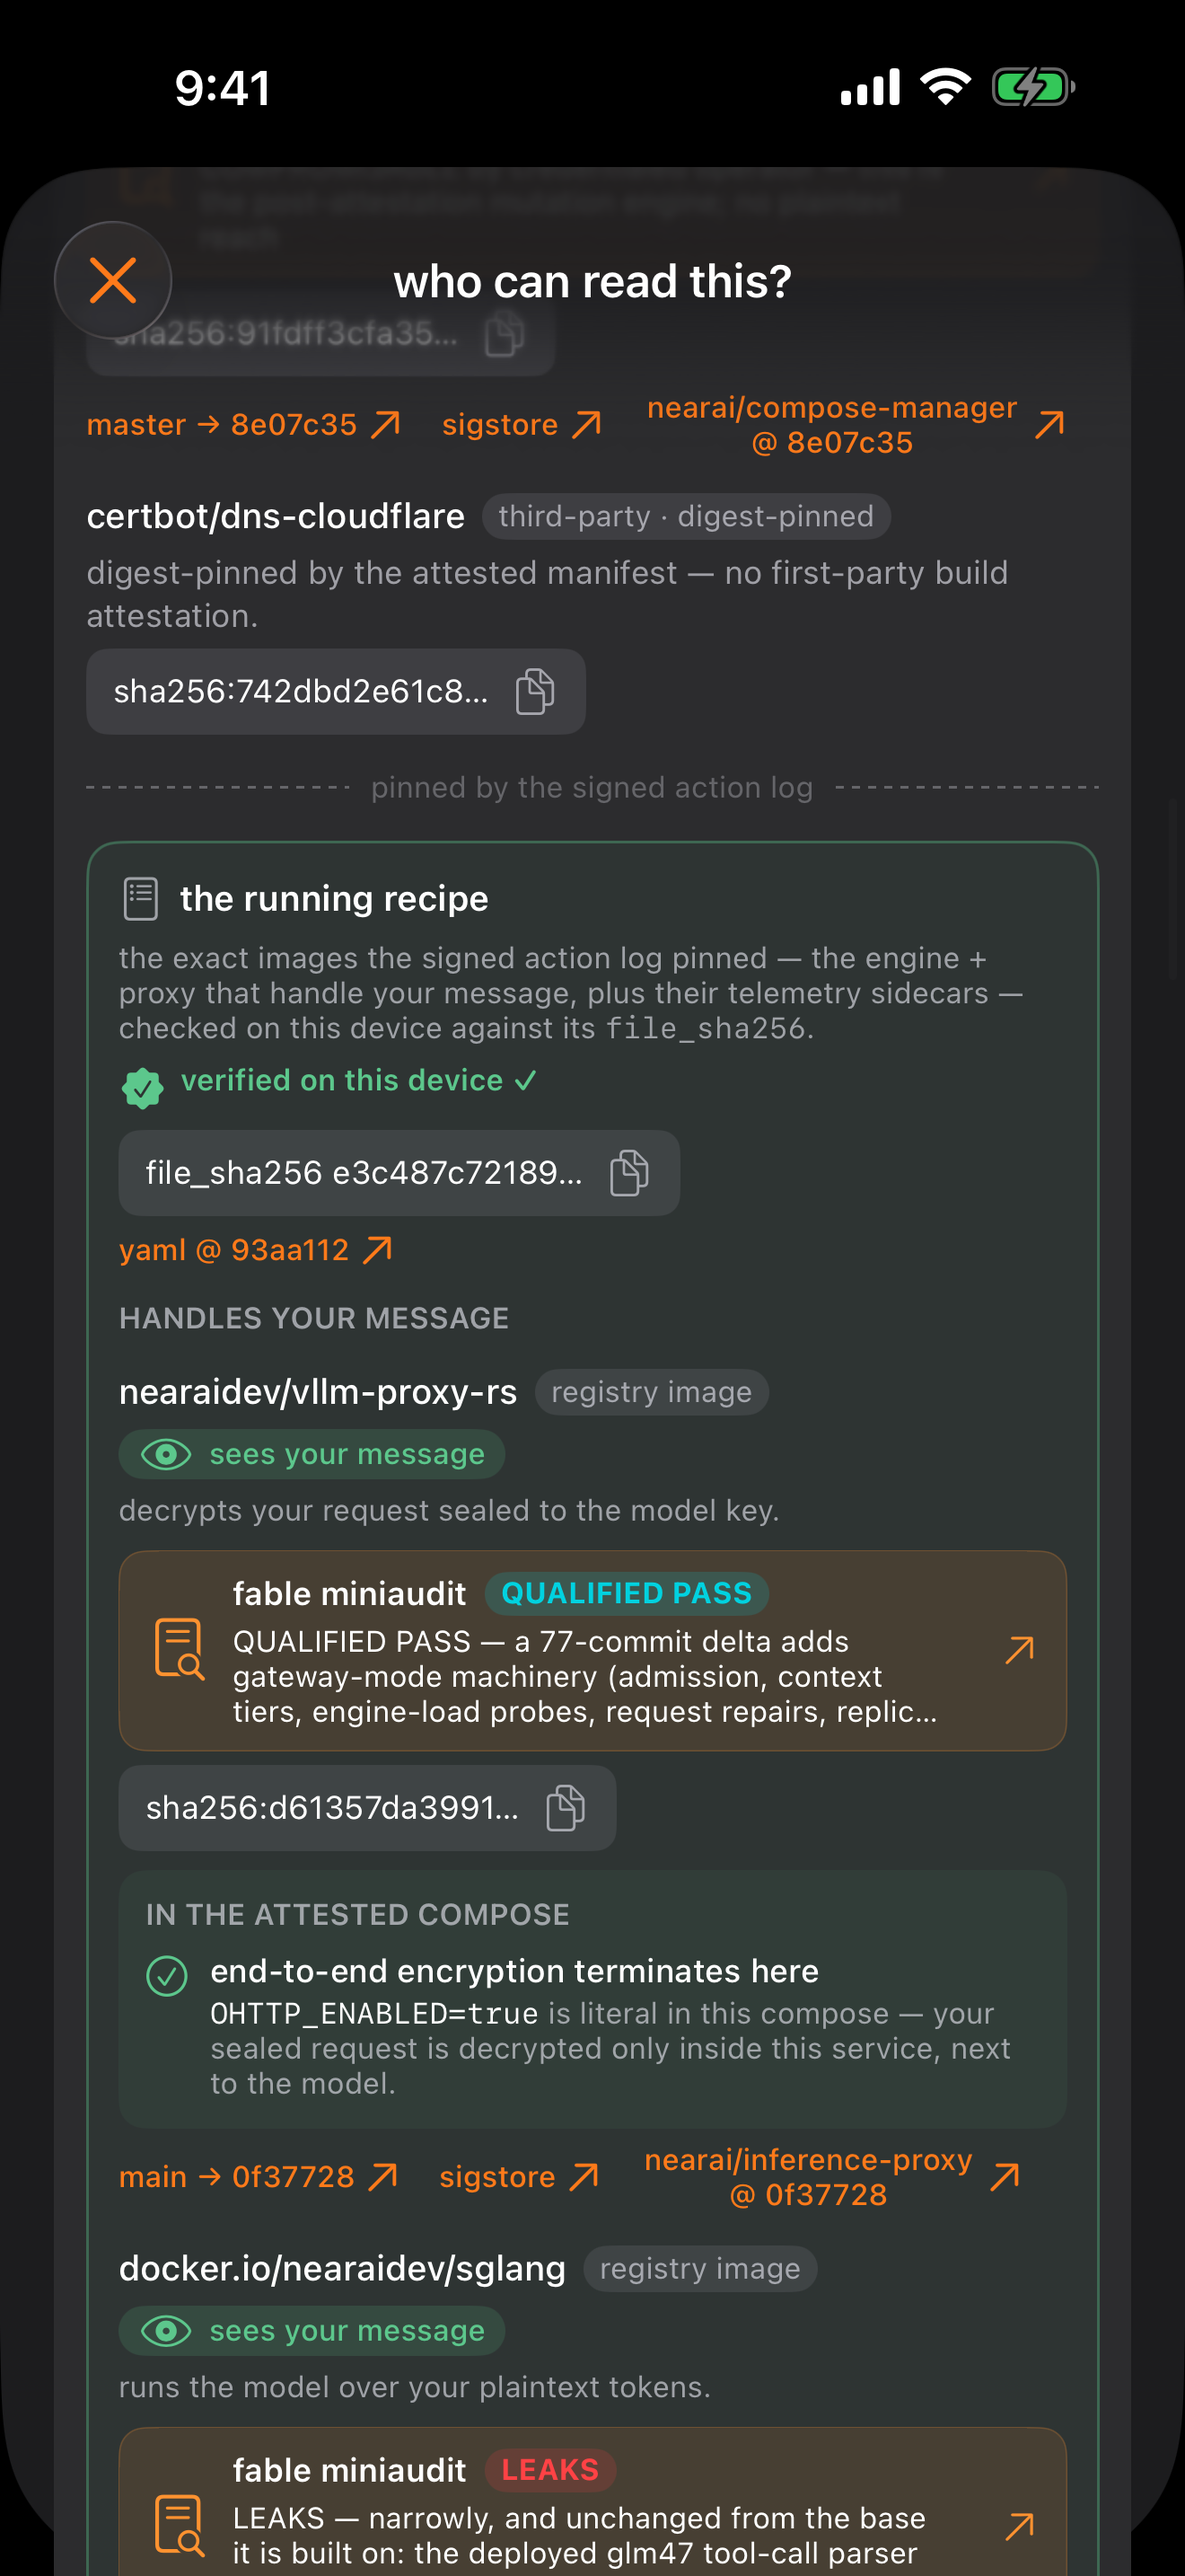
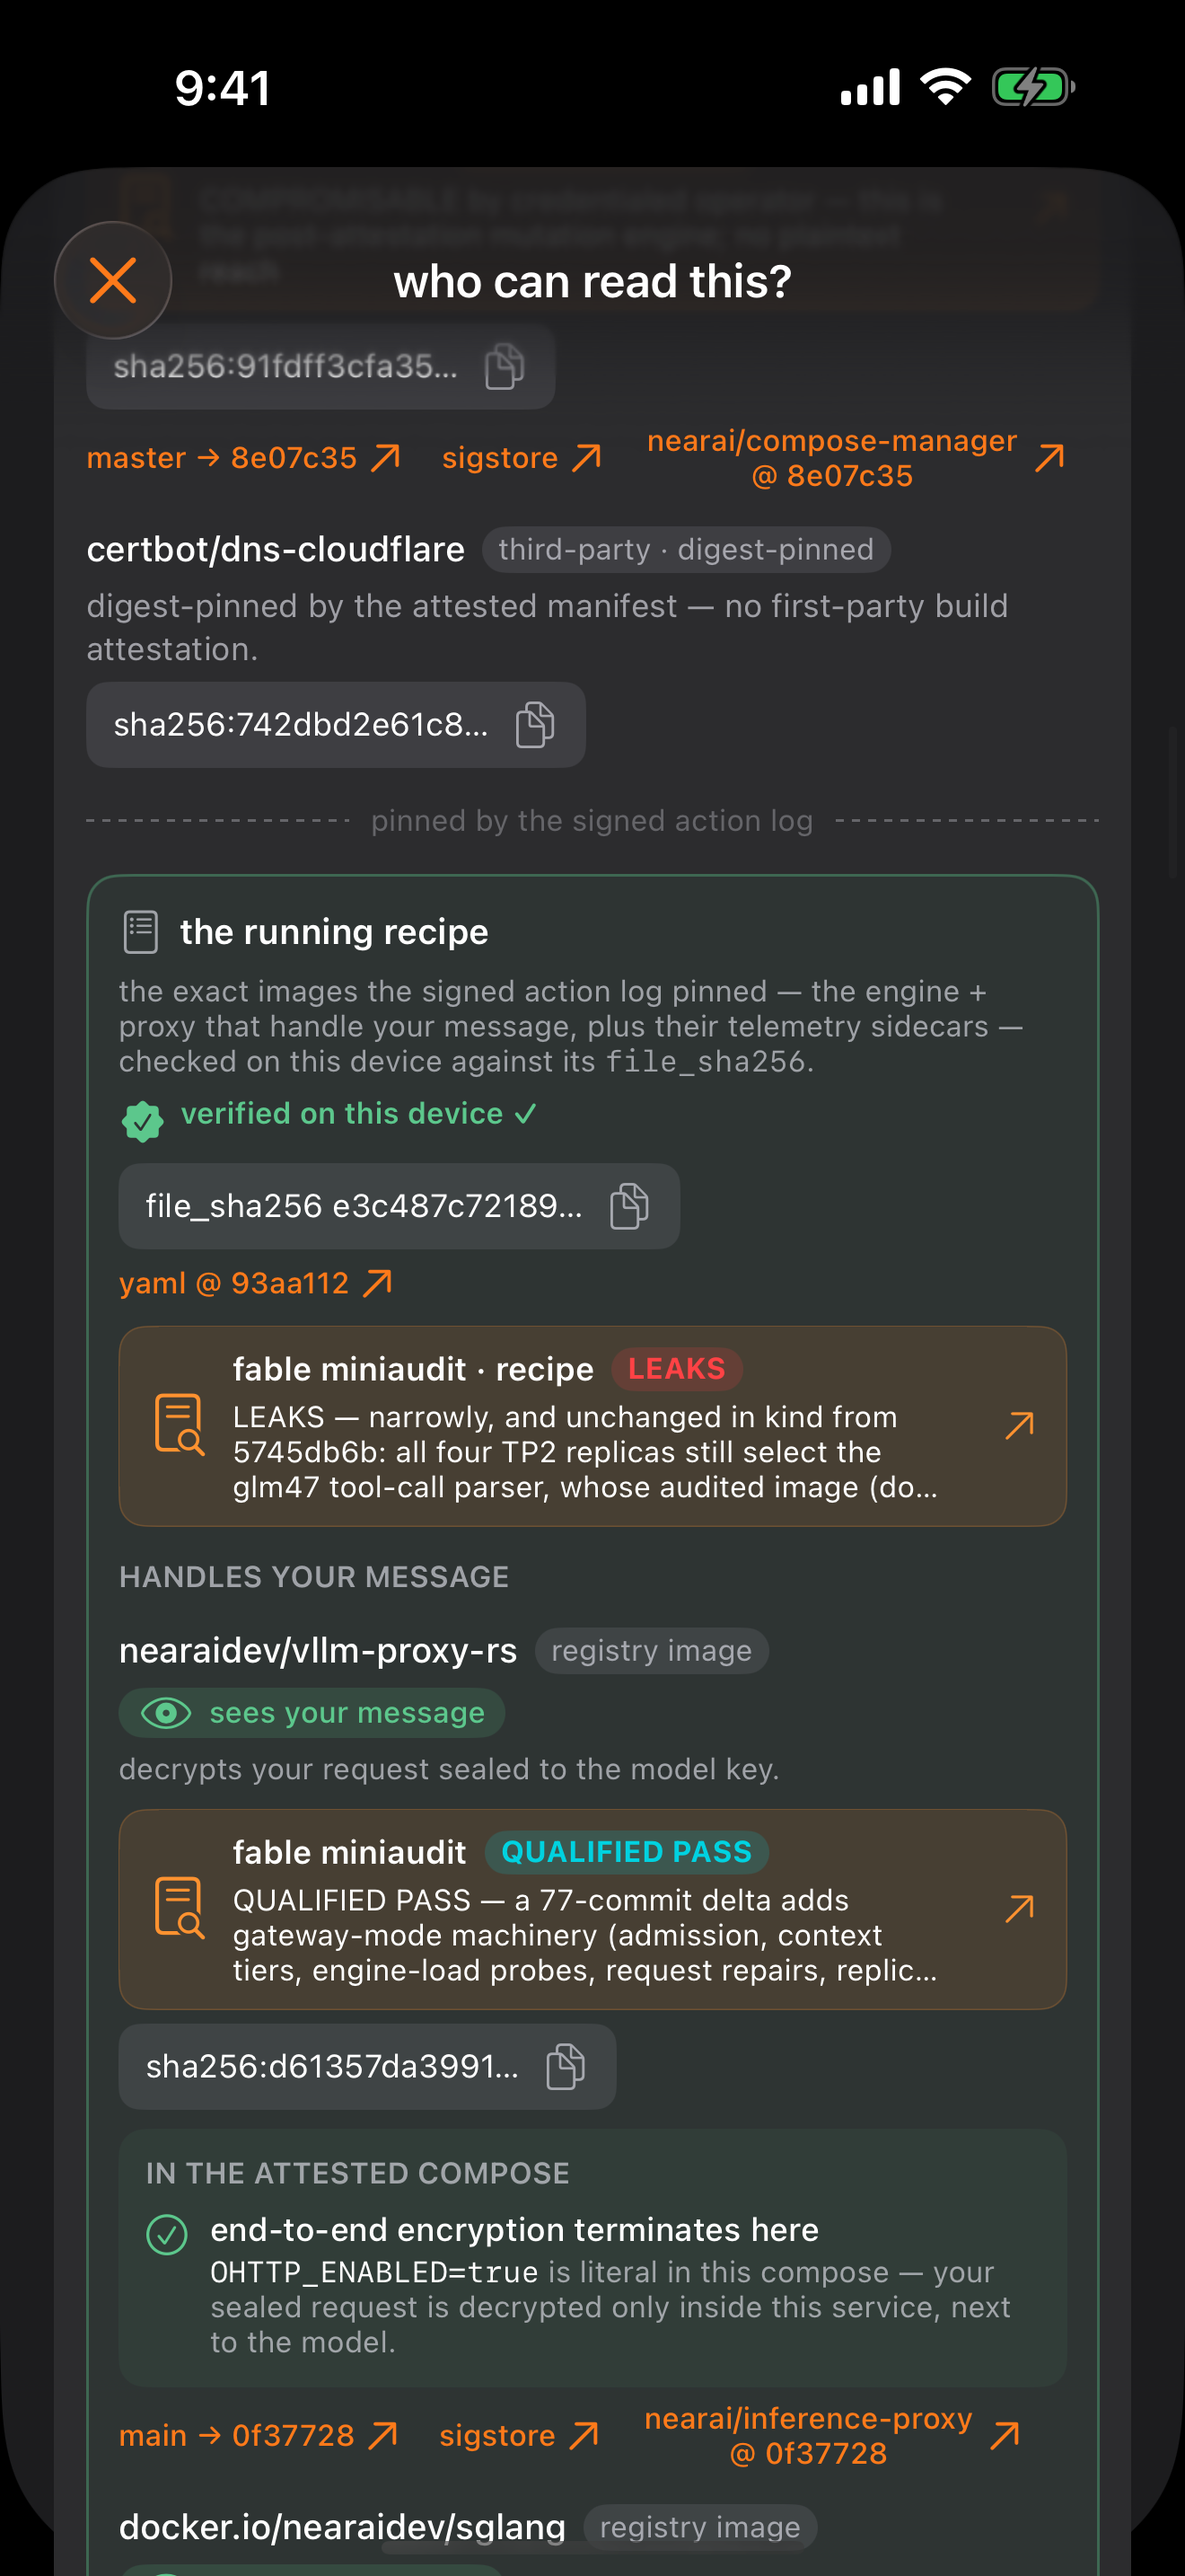
docs: ATTESTATION recipe frame carries the recipe's own LEAKS verdict
The recipe running GLM-5.3-Flash now has its own audit, "LEAKS, narrowly,
unchanged in kind" (teemoonai/audits drift #9), and the expert view shows it on
the running-recipe card. The everyday verdict is unchanged.

diff --git a/ATTESTATION.md b/ATTESTATION.md
@@ -55,7 +55,7 @@ check blocks the send:
     </td>
     <td align="center">
       <img src="assets/proof-expert-3.png" width="250"
-           alt="The expert view continues: compose-manager-launcher also COMPROMISABLE, then the running recipe verified on this device against its file_sha256; vllm-proxy-rs, which decrypts your sealed request, with a Fable miniaudit QUALIFIED PASS; where end-to-end encryption terminates; and sglang running the model over your plaintext, with a Fable miniaudit LEAKS.">
+           alt="The expert view continues: the running recipe verified on this device against its file_sha256, with its own Fable miniaudit LEAKS (narrowly: all four replicas still select the glm47 tool-call parser); vllm-proxy-rs, which decrypts your sealed request, with a Fable miniaudit QUALIFIED PASS; and where end-to-end encryption terminates, just above sglang, the engine that runs the model over your plaintext.">
     </td>
   </tr>
   <tr>
